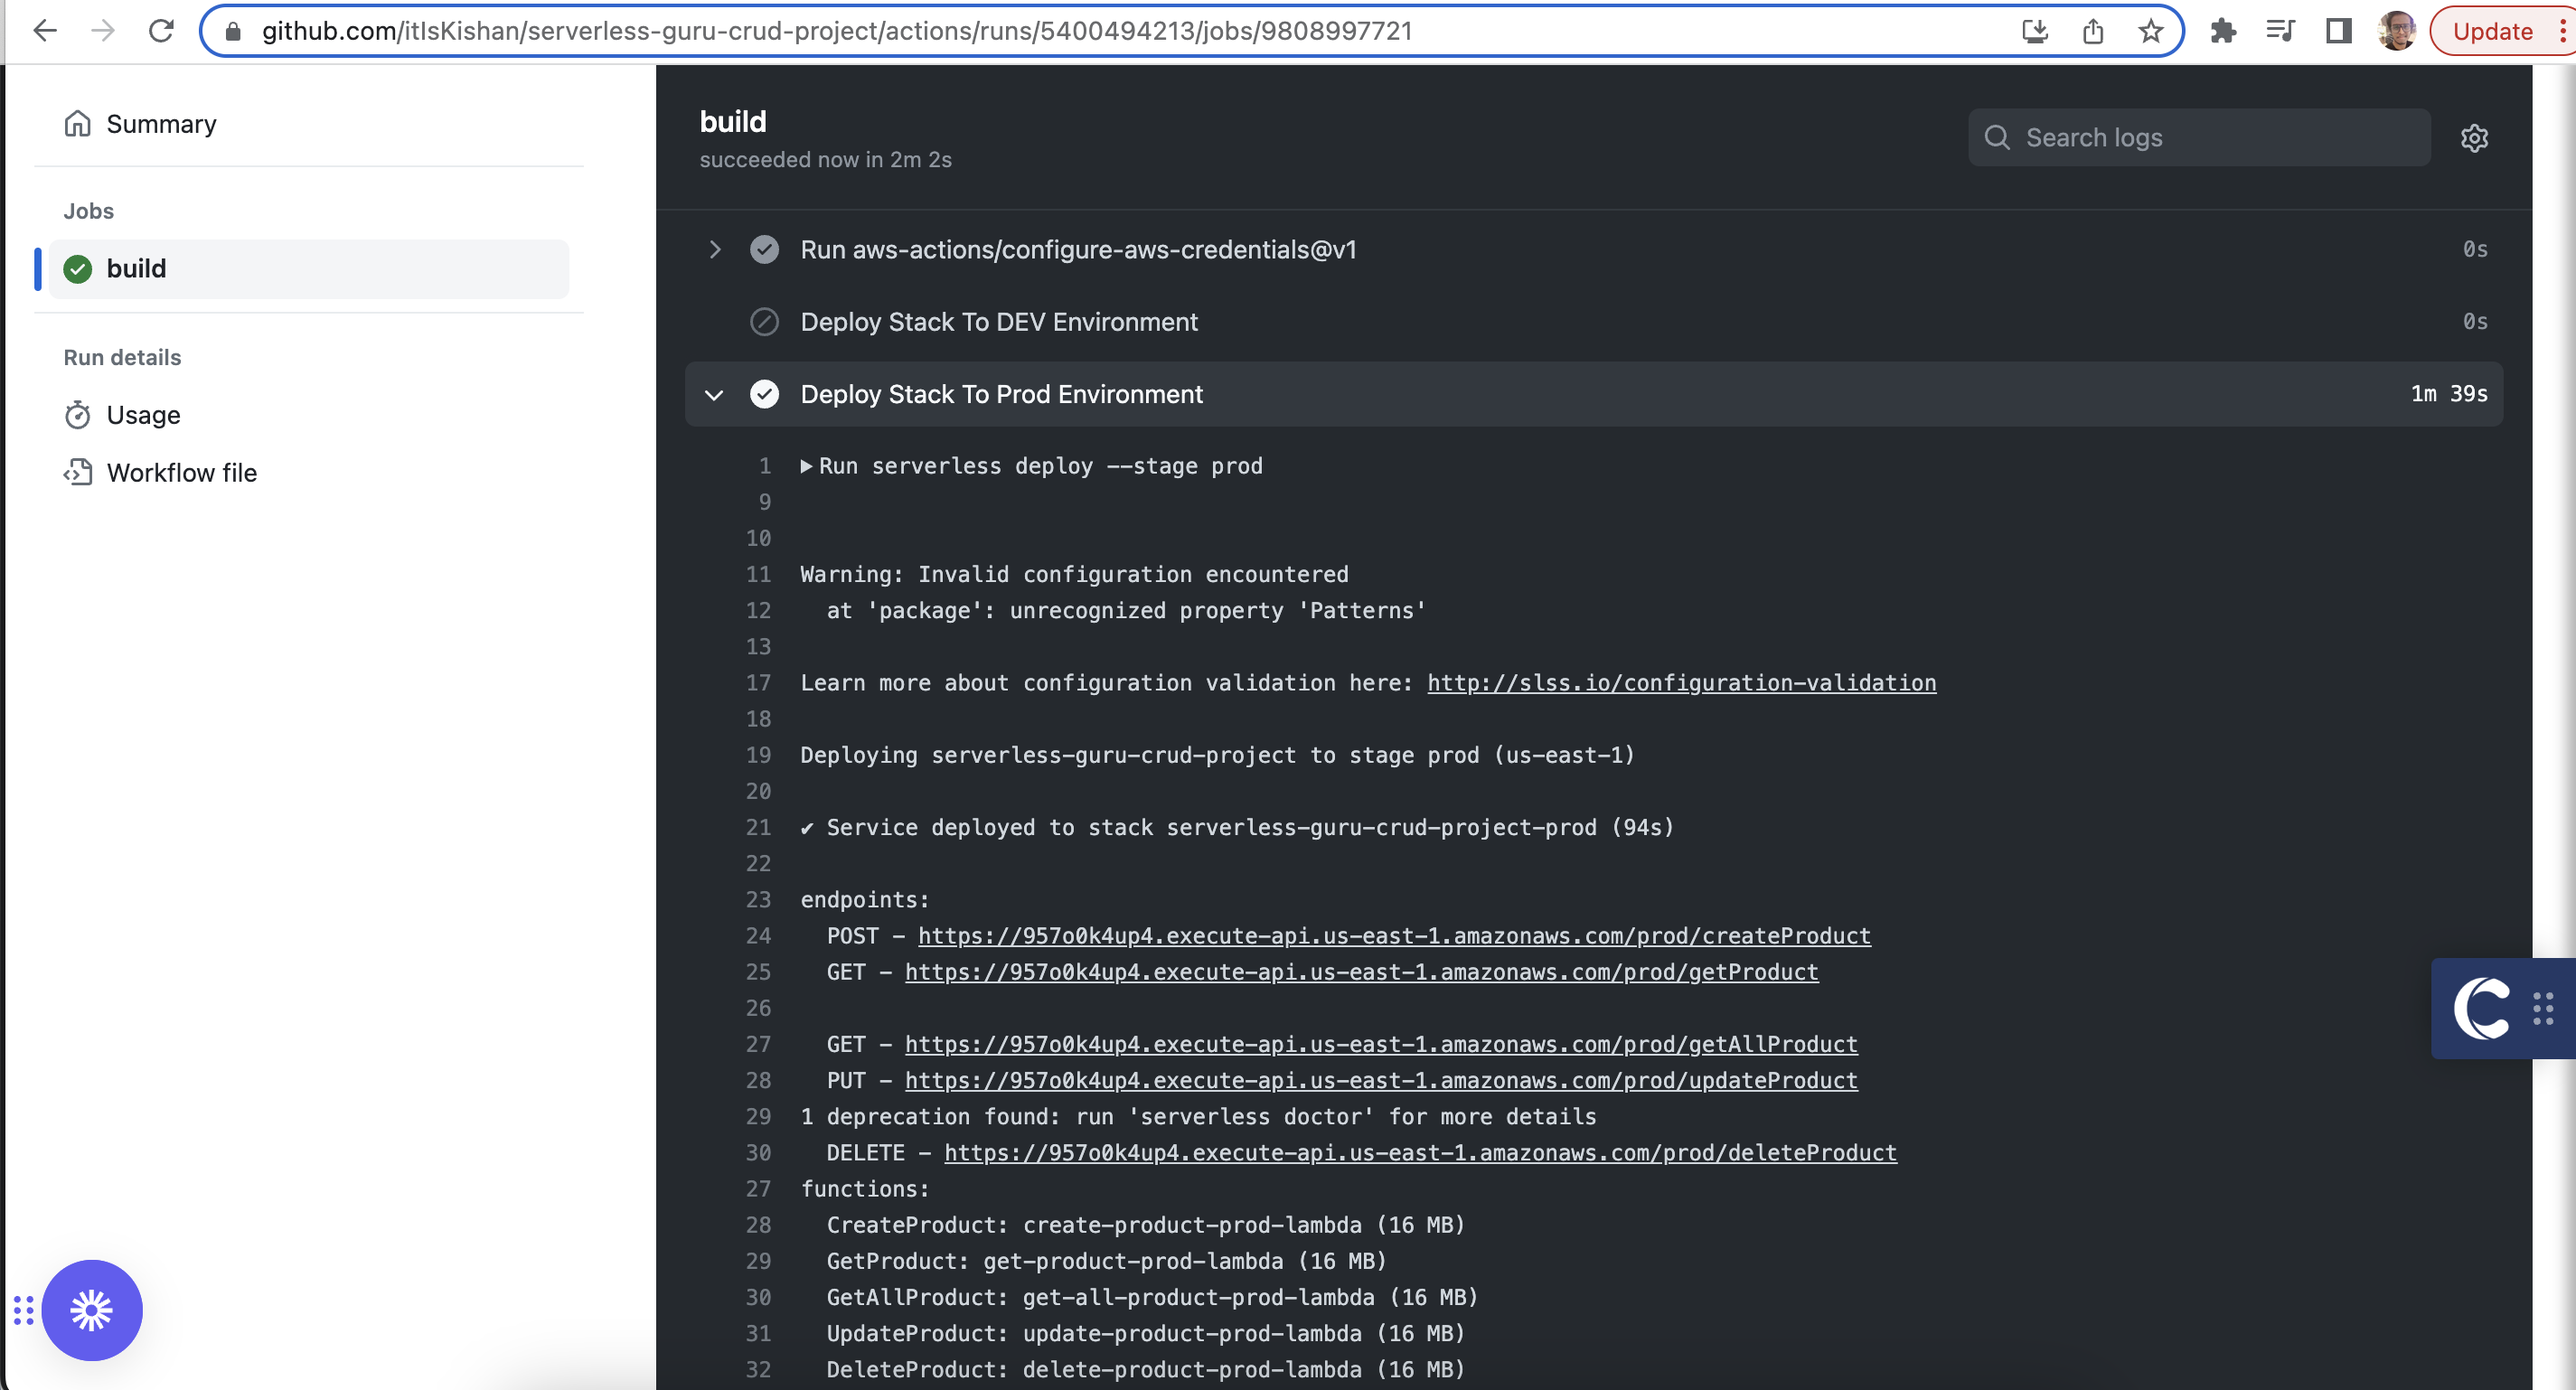
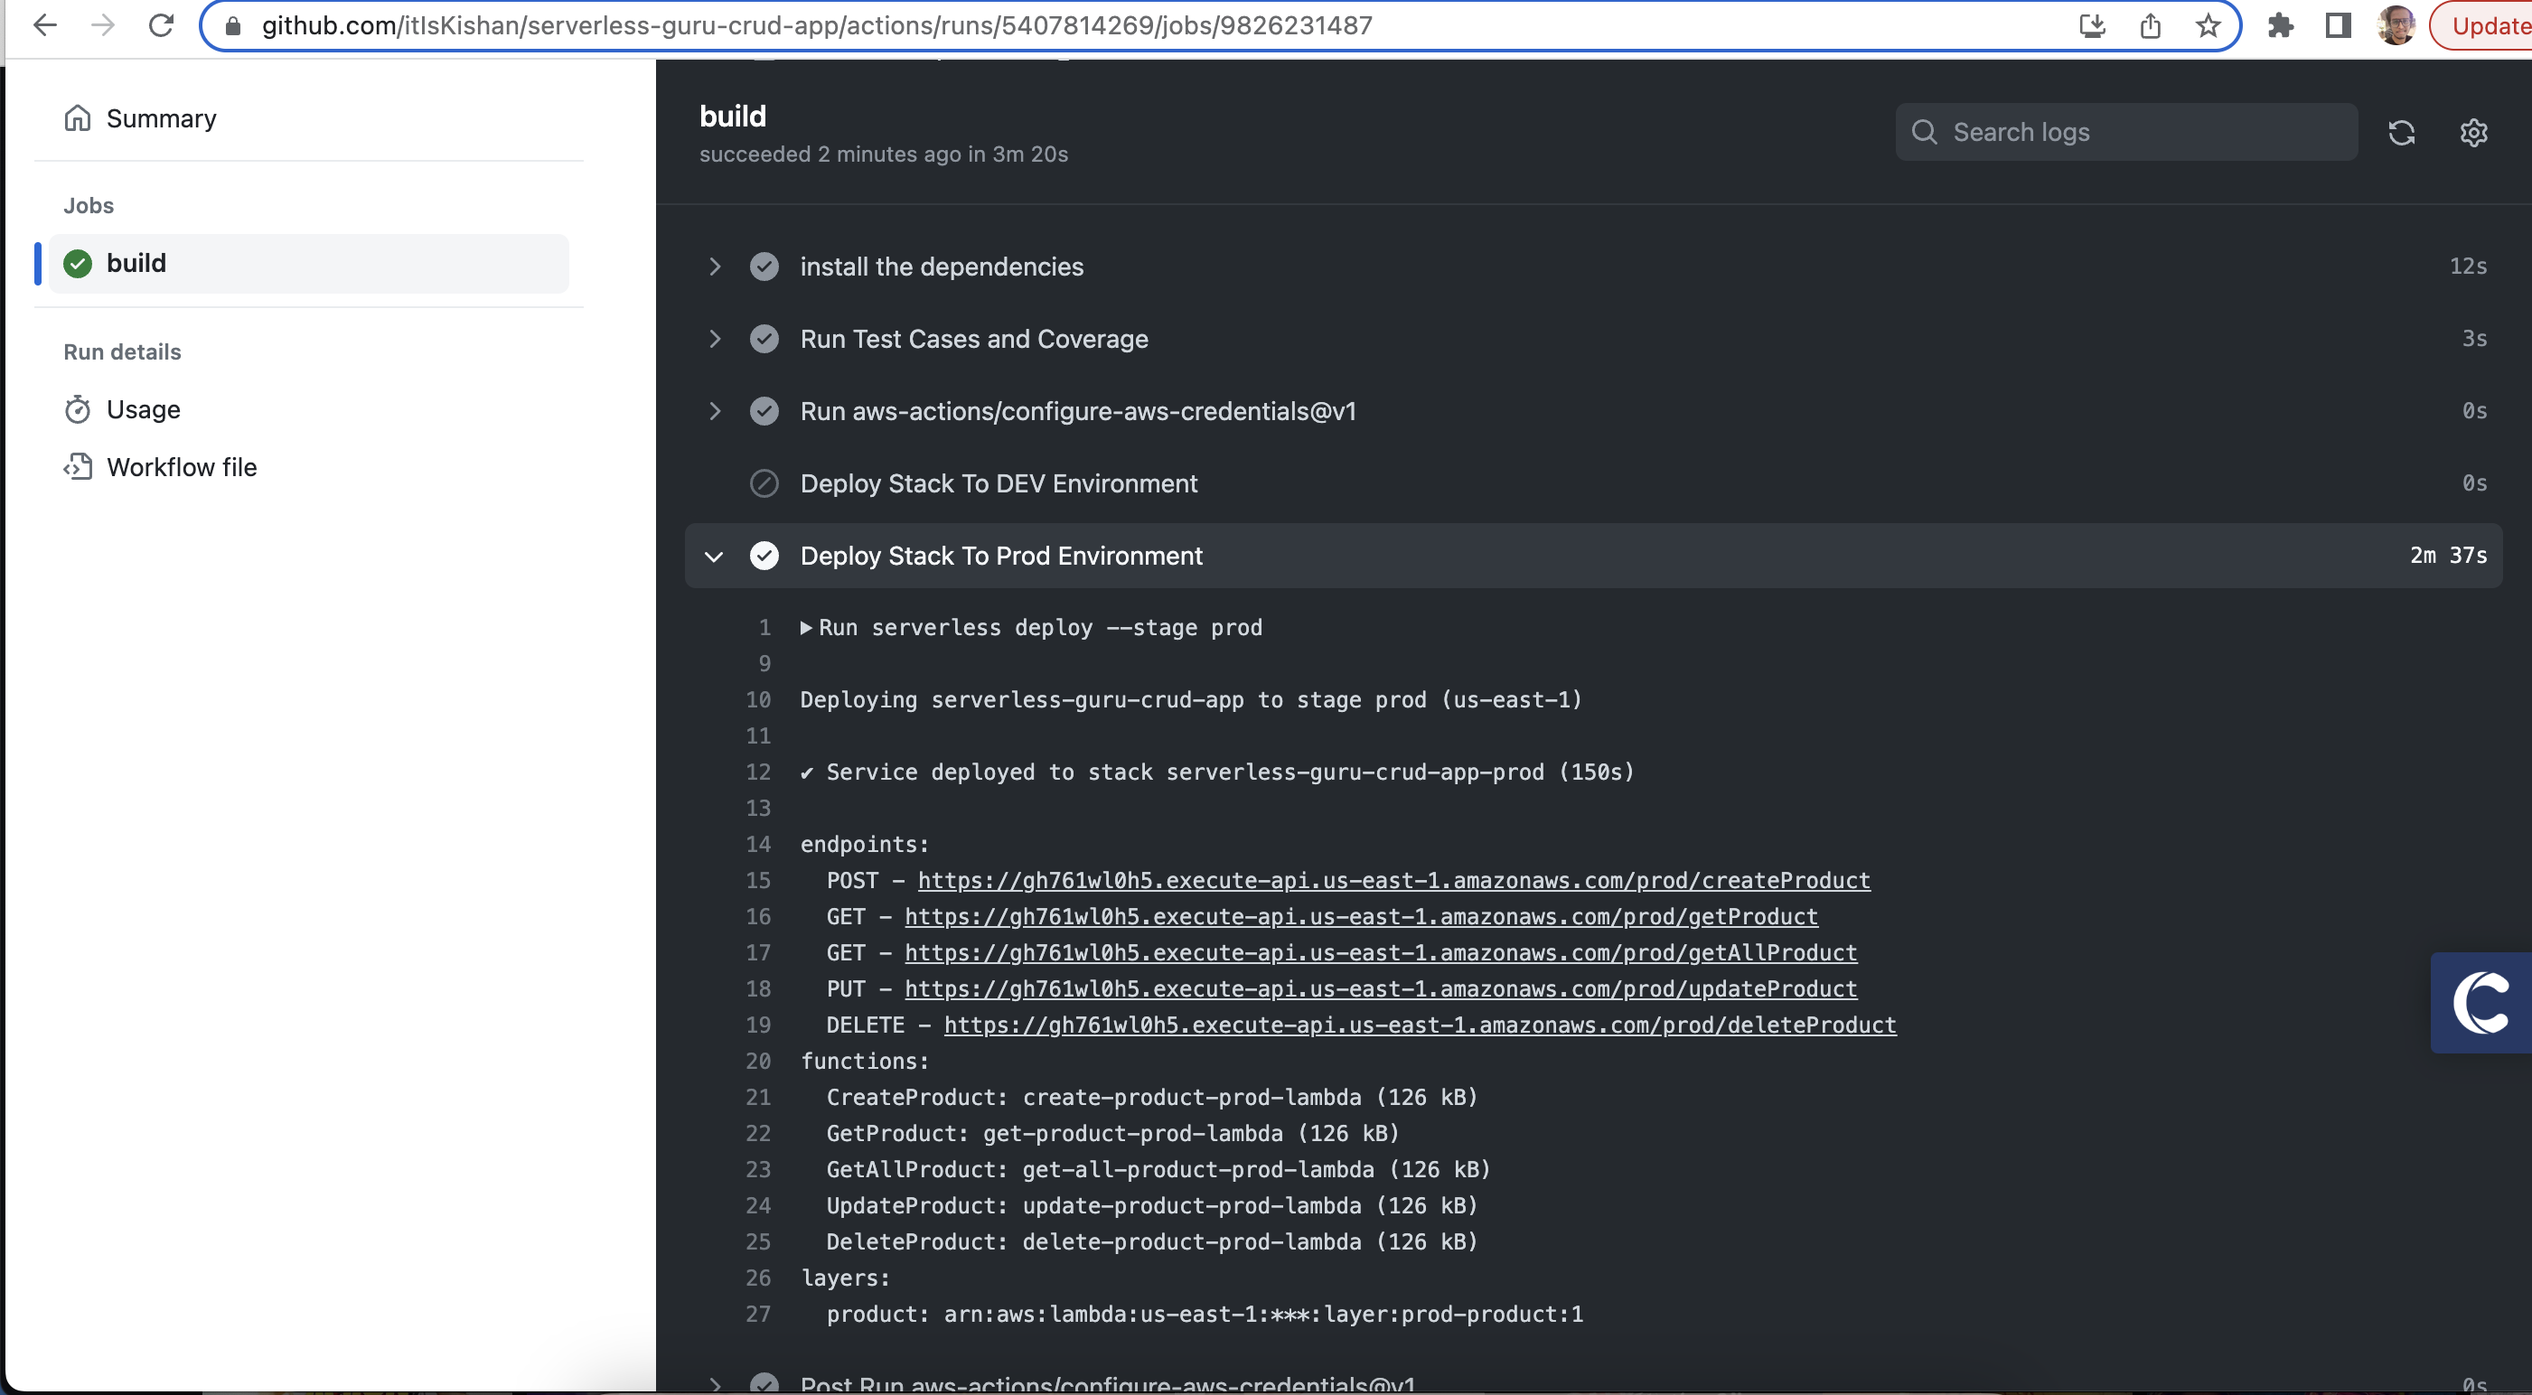
feat: added the prod ci/cd screenshot to prod branch

diff --git a/README.md b/README.md
@@ -89,7 +89,7 @@ If you want to use my API and test in postman use the below API:
 
 ```
 DEV: https://o36gp3eh0c.execute-api.us-east-1.amazonaws.com/dev/
-PROD: https://957o0k4up4.execute-api.us-east-1.amazonaws.com/prod/
+PROD: https://gh761wl0h5.execute-api.us-east-1.amazonaws.com/prod/
 ```
 
 ### RUN TEST CASES
